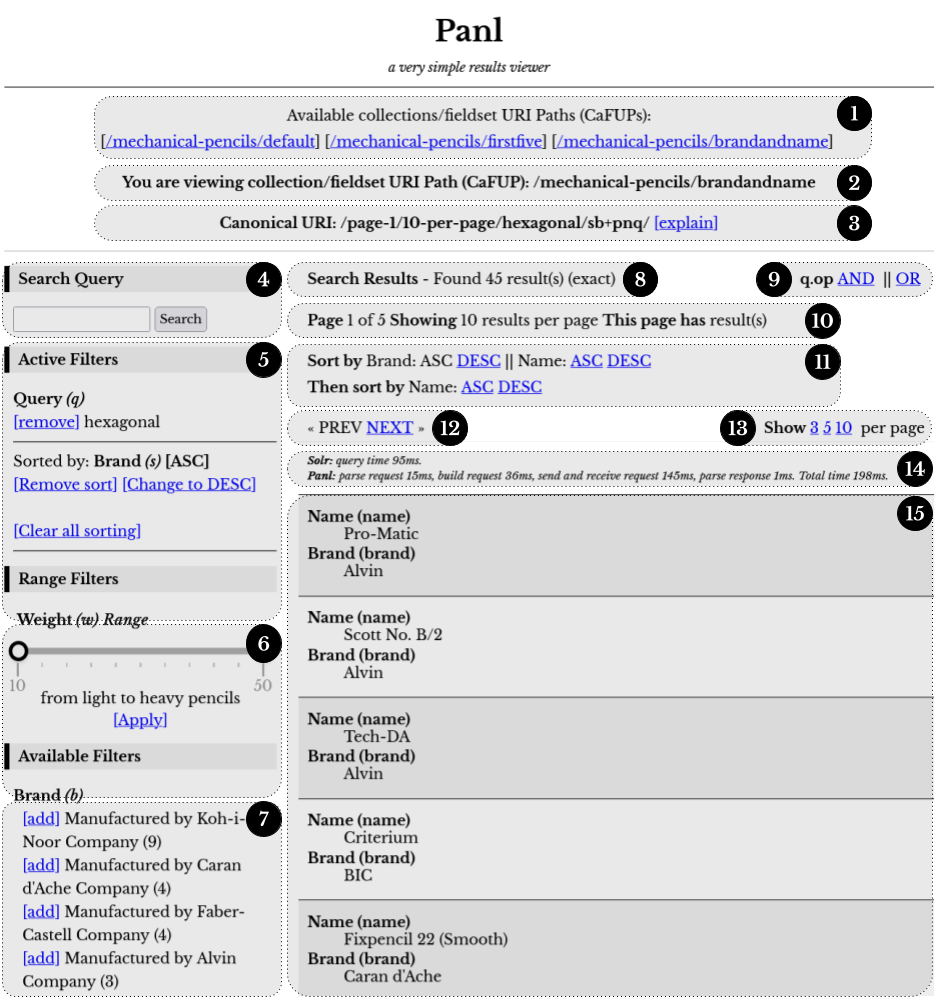
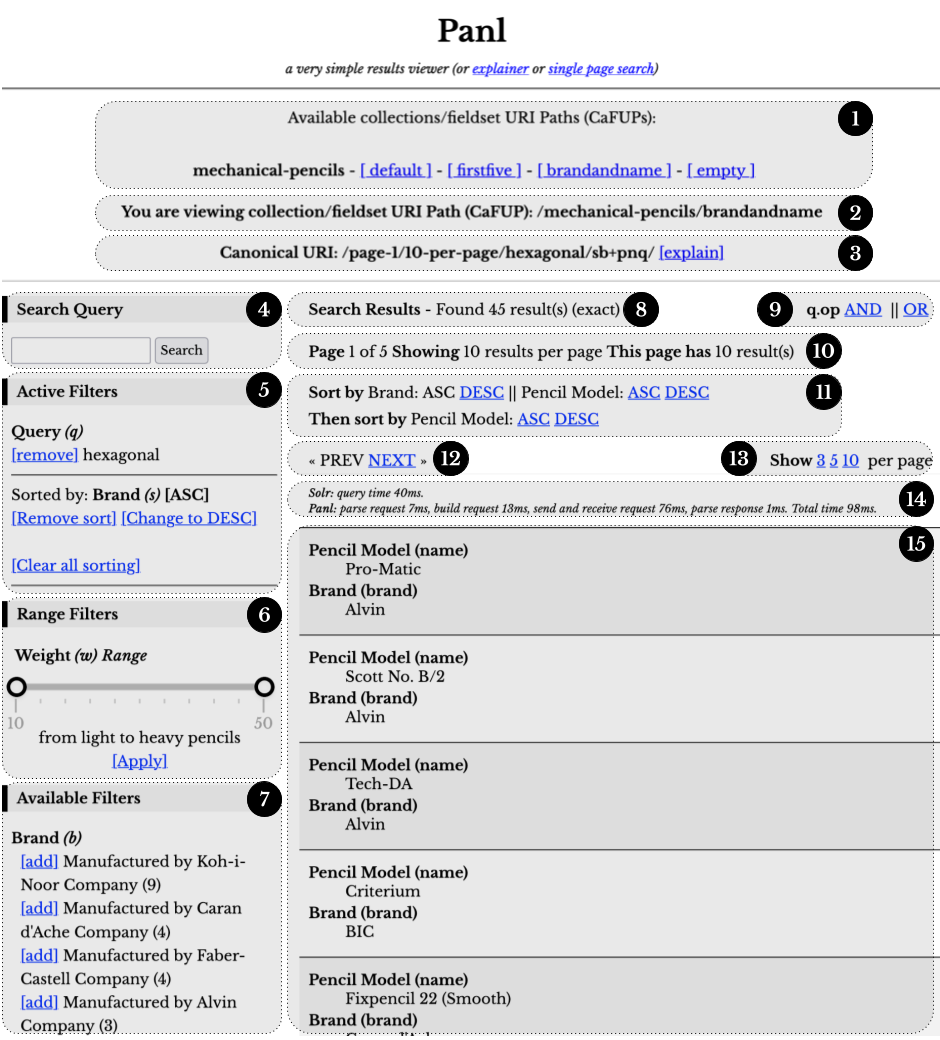
updates to wimple web apps with links to the single page search

Changed region(s): [[0.0, 0.0, 1.0, 1.0]]

diff --git a/src/main/resources/panl-results/static/panl-single-page-search.js b/src/main/resources/panl-results/static/panl-single-page-search.js
@@ -73,7 +73,7 @@ function appendFacet(lpseOrder) {
 		// BOOLEAN facet
 		return(
 			"<select id=\"" + lpseOrder.name + "\">" +
-				"<option></option>" +
+				"<option>[No selection]</option>" +
 				"<option value=\"" + lpseOrder.values[0].encoded + "\">" + decodePanl(lpseOrder.values[0].encoded) + "</option>" +
 				"<option value=\"" + lpseOrder.values[1].encoded + "\">" + decodePanl(lpseOrder.values[1].encoded) + "</option>" +
 			"</select>"
@@ -94,7 +94,7 @@ function appendFacet(lpseOrder) {
 	} else {
 		// regular facet
 		// go through and print all of the details
-		var returnHTML = "<input type=\"radio\" name=\"" + lpseOrder.name + "\" value=\"\">&nbsp;<em>[Not selected]</em><br />";
+		var returnHTML = "<input type=\"radio\" name=\"" + lpseOrder.name + "\" value=\"\">&nbsp;<em>[No selection]</em><br />";
 		for(const value of lpseOrder.values) {
 			returnHTML = returnHTML + "<input type=\"radio\" id=\"" + lpseOrder.name + "\" name=\"" + lpseOrder.name + "\" value=\"" + value.encoded + "\">&nbsp;" + decodePanl(value.value) + "<br />";
 		}

diff --git a/src/main/resources/panl-results/single-page-search/index.html b/src/main/resources/panl-results/single-page-search/index.html
@@ -7,7 +7,7 @@
 	<link rel="preconnect" href="https://fonts.gstatic.com" crossorigin>
 	<link href="https://fonts.googleapis.com/css2?family=Libre+Baskerville:ital,wght@0,400;0,700;1,400&display=swap" rel="stylesheet">
 	<script src="/panl-results/static/jquery-3.7.1.min.js"></script>
-	<script src="/panl-results/static/panl-configuration.js"></script>
+	<script src="/panl-results/static/panl-single-page-search.js"></script>
 
 	<link href="/panl-results/static/nouislider.min.css" rel="stylesheet" />
 	<script src="/panl-results/static/nouislider.min.js"></script>
@@ -19,7 +19,7 @@
 <div id="container">
 	<div id="header">
 		<h1>Panl</h1>
-		<h2><em>a single page search interface</em></h2>
+		<h2><em>a very simple single search page  (or <a href="/panl-results-viewer/">viewer</a> or <a href="/panl-results-explainer/">explainer</a>)</em></h2>
 
 		<hr />
 

diff --git a/src/main/resources/panl-results/explainer/index.html b/src/main/resources/panl-results/explainer/index.html
@@ -17,7 +17,7 @@
 <div id="container">
 	<div id="header">
 		<h1>Panl</h1>
-		<h2><em>a very simple results explainer</em></h2>
+		<h2><em>a very simple results explainer (or <a href="/panl-results-viewer/">viewer</a> or <a href="/panl-single-page-search/">single page search</a>)</em></h2>
 
 		<hr />
 

diff --git a/src/main/resources/panl-results/viewer/index.html b/src/main/resources/panl-results/viewer/index.html
@@ -18,7 +18,7 @@
 <div id="container">
 	<div id="header">
 		<h1>Panl</h1>
-		<h2><em>a very simple results viewer</em></h2>
+		<h2><em>a very simple results viewer (or <a href="/panl-results-explainer/">explainer</a> or <a href="/panl-single-page-search/">single page search</a>)</em></h2>
 
 		<hr />
 

diff --git a/src/main/java/com/synapticloop/panl/generator/bean/PanlCollection.java b/src/main/java/com/synapticloop/panl/generator/bean/PanlCollection.java
@@ -271,6 +271,9 @@ public class PanlCollection {
 						case "schema":
 							this.collectionName = startElement.getAttributeByName(new QName("name")).getValue();
 							LOGGER.info("Found collection name of {}", this.collectionName);
+							if(this.collectionName.startsWith("panl-")) {
+								throw new PanlGenerateException("You CANNOT have a collection that starts with 'panl-'");
+							}
 							break;
 						case "fieldType":
 							String fieldTypeName = startElement.getAttributeByName(new QName("name")).getValue();

diff --git a/src/main/java/com/synapticloop/panl/server/handler/results/configuration/PanlResultsConfigurationHandler.java b/src/main/java/com/synapticloop/panl/server/handler/results/configuration/PanlResultsConfigurationHandler.java
@@ -39,6 +39,6 @@ public class PanlResultsConfigurationHandler implements HttpRequestHandler {
 	}
 
 	@Override public void handle(HttpRequest request, HttpResponse response, HttpContext context) {
-		ResourceHelper.serveResource("/panl-results/configuration/index.html", response);
+		ResourceHelper.serveResource("/panl-results/single-page-search/index.html", response);
 	}
 }

diff --git a/README.md b/README.md
@@ -46,6 +46,7 @@ Panl allows
 - **PAGINATION** - in built and ready to go
 - **STATIC SITE GENERATION** - for small datasets with few options.  Alternatively they can be seen as easily cacheable and canonical sources for the returned results.
 - **STATELESS** - Quick startup, with no state.
+- **TEXT CONFIGURATION** - All configuration for Panl is based on text files (Java `.properties`) files so they can be stored in a source code management system.
 
 # Getting up to Speed... Fast!
 
@@ -331,3 +332,21 @@ I.e.
  - `.\build\distributions` (Windows)
 
 with the release files named `solr-panl-9-x.x.x`
+
+# Version History
+
+## 1.1.0
+
+ - Added in `empty` FieldSet to return no documents
+ - Added in Single Search Page functionality
+ - Update Mechanical Pencils 
+   - Added in hierarchy for the Pencil Model
+ - Documentation update
+   - Fixed general spelling and grammar errors
+   - Added in documentation for new features and functionality
+   - Updated mechanical pencils introductory dataset explanations
+   - Added in documentation for Fields
+
+## 1.0.0
+
+- Initial release with base functionality
